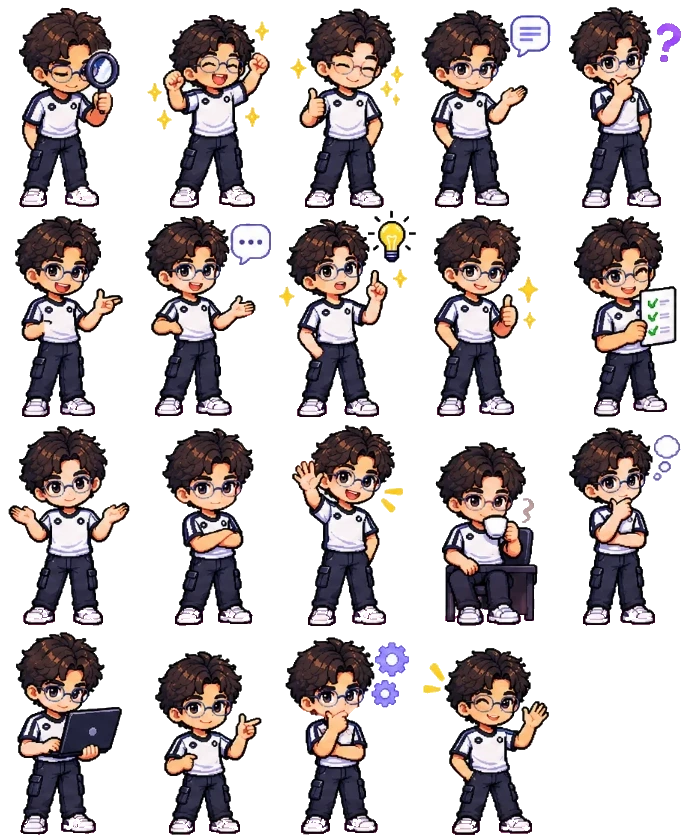
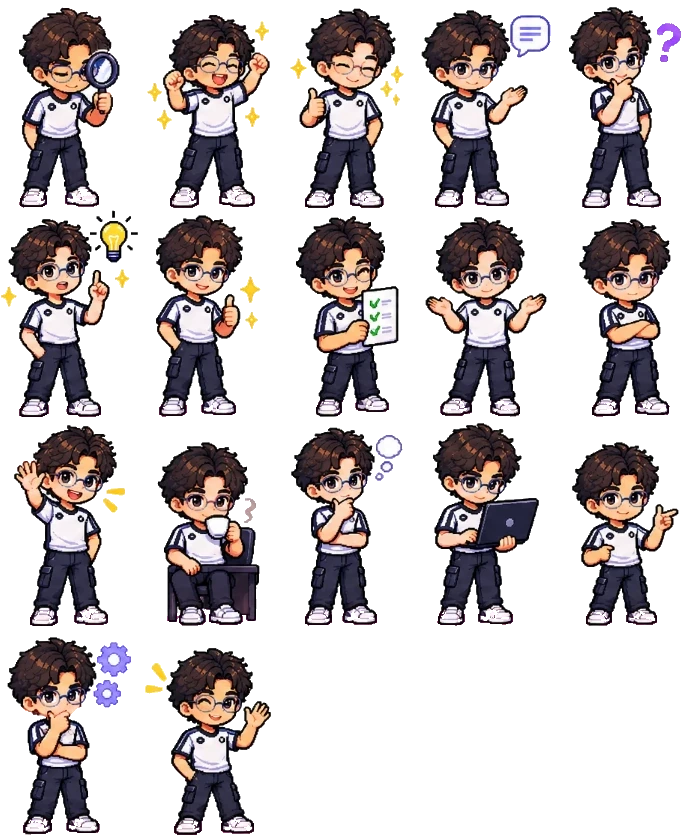
Assistente IA: sem as poses com mão cortada

Changed region(s): [[0.0, 0.2488, 0.7856, 1.0], [0.8158, 0.2488, 0.9971, 0.7464], [0.2115, 0.7775, 0.3928, 1.0]]

diff --git a/demos/sistemas/base/assistente-ia.js b/demos/sistemas/base/assistente-ia.js
@@ -1,15 +1,15 @@
 // Personagem do Assistente IA (poses do dono em assistente-ia.webp, sem redesenho): troca de pose por estado e respira (o tronco sobe 1 px).
 // Gerado por scratchpad/iaass/montar.py: W/H da célula, ordem das poses (5 por linha) e a linha da cintura de cada uma.
 const W = 139, H = 209, POR_LINHA = 5;
-const POSES = ['analisando', 'concluido', 'confirmado', 'conversando', 'duvida', 'explicacao', 'explicando', 'ideia', 'joia', 'listando', 'naosei', 'negativo', 'ola', 'pausa', 'pensando', 'pesquisando', 'podedeixar', 'processando', 'tchau'];
-const CINTURA = { analisando: 111, concluido: 115, confirmado: 112, conversando: 112, duvida: 111, explicacao: 111, explicando: 111, ideia: 108, joia: 111, listando: 111, naosei: 112, negativo: 112, ola: 111, pausa: 119, pensando: 112, pesquisando: 110, podedeixar: 119, processando: 112, tchau: 118 };
+const POSES = ['analisando', 'concluido', 'confirmado', 'conversando', 'duvida', 'ideia', 'joia', 'listando', 'naosei', 'negativo', 'ola', 'pausa', 'pensando', 'pesquisando', 'podedeixar', 'processando', 'tchau'];
+const CINTURA = { analisando: 111, concluido: 115, confirmado: 112, conversando: 112, duvida: 111, ideia: 108, joia: 111, listando: 111, naosei: 112, negativo: 112, ola: 111, pausa: 119, pensando: 112, pesquisando: 110, podedeixar: 119, processando: 112, tchau: 118 };
 const ESTADOS = {
   parado: ['conversando'], ola: ['ola', 'joia'], ouvindo: ['conversando', 'listando'],
-  pensando: ['pensando', 'processando', 'pesquisando', 'analisando'], explicando: ['explicacao', 'explicando', 'ideia', 'explicando'],
+  pensando: ['pensando', 'processando', 'pesquisando', 'analisando'], explicando: ['conversando', 'ideia', 'listando', 'conversando'],
   sucesso: ['concluido', 'confirmado'], naosei: ['naosei', 'duvida'], negativo: ['negativo', 'naosei'], pausa: ['pausa'], tchau: ['tchau', 'podedeixar'],
 };
 let folha = null;
-const carregar = () => folha || (folha = new Promise((ok, erro) => { const i = new Image(); i.onload = () => ok(i); i.onerror = erro; i.src = new URL('./assistente-ia.webp', import.meta.url).href; }));
+const carregar = () => folha || (folha = new Promise((ok, erro) => { const i = new Image(); i.onload = () => ok(i); i.onerror = erro; i.src = new URL('./assistente-ia.webp?v=2', import.meta.url).href; }));
 
 /** Põe o personagem dentro de `el` e devolve { estado(nome, depois?), parar() }. `depois` volta a um estado após ms. */
 export function personagemIA(el, inicial = 'ola') {
